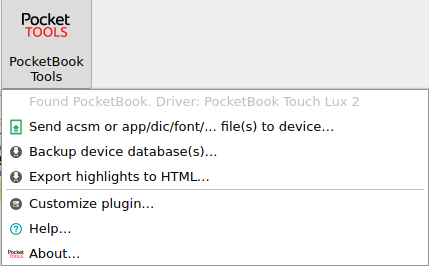
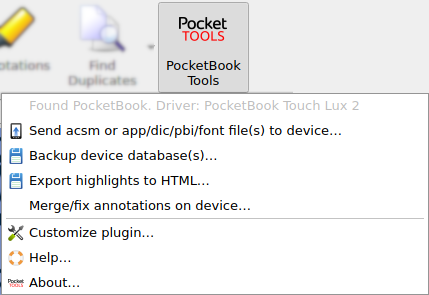
Added annotation merge/fix tool

diff --git a/help/PocketBook-Tools_Help_en.html b/help/PocketBook-Tools_Help_en.html
@@ -8,23 +8,23 @@
 </head>
 
 <body>
-<h1>Calibre PocketBook Tools helpfile</h1>
+<h1>Calibre PocketBook Tools help</h1>
 <p>Basic plugin offering several tools for (recent) Pocketbook readers.</p>
-<p>When Calibre recognises an USB connected PocketBook reader, the menu options should become available.</p>
+<p>When Calibre recognises an USB connected PocketBook reader, the menu options should become available.<br />
+    It should support most recent HD, Lux, Basic and Inkpad models.</p>
 
 <h2>Requirements</h2>
-<p>Plugin was tested with the 'PocketBook Lux 2' driver with Calibre versions 3.48-5.x, under Linux and Windows 10. It should support most recent HD, Lux, Basic and Inkpad models. 
+<p>Plugin was tested with the 'PocketBook Lux 2' driver with Calibre versions 3.48-5.x, under Linux and Windows 10.
 Plugin will also run under 2.58 but could not be tested due to device driver issues (if wanting, checkout CLI options for main.py).
 </p>
 <p>*Uses Vendor ID = [0xfffe]</p>
 
 <h2>Support and questions</h2>
-<p>Please visit the Mobilereads thread.</p>
+<p>Please visit the future Mobileread thread.</p>
 
 
 <h2>Todo</h2>
 <ul>
-<li>Export highlights: resolve minor sorting issue in 'title and page' mode</li>
 <li>Send to device: add GUI file overview</li>
 <li>Add additional CLI options</li>
 <li>Help wanted:<ul>
@@ -36,23 +36,31 @@ Plugin will also run under 2.58 but could not be tested due to device driver iss
 <hr />
 <h2>Tools</h2>
 <h3>Copy (...) files to device (GUI + CLI)</h3>
-<p>Copies user selected .acsm, .app, .dic/.pbi and font files to the appropiate folder on the connected reader</p>
+<p>Copies user selected .acsm, .app, .dic/.pbi and font files to the appropiate folder on the connected reader.</p>
 <p>Note that .zip support uses a simplified extraction method, which loses file metadata (time stamps) and loads extraction files into memory (one at a time).</p>
 
 <h3>Backup Database(s)</h3>
 <p>Copies explorer-x.db and books.db(s) to the specified directory.</p> 
 <p>The first contains file metadata from the library interface, and reading positions.
 The latter contains annotations, together with (unused) file metadata.</p> 
+<p>Notes: file similarity is checked after copying. <b>Existing backups are (currently) silently overwritten</b>.</p>
 
 <h3>Export Highlights</h3>
-For additional exporting features, see the <a href="http://www.mobileread.com/forums/showthread.php?p=2853161">Annotations plugin</a> that can export highlights and notes to Calibre.
+<p>For additional exporting features, see the <a href="http://www.mobileread.com/forums/showthread.php?p=2853161">Annotations plugin</a> that can export highlights and notes to Calibre.</p>
+
+<h3>Merge/Fix annotations on device</h3>
+<p>After an e-book files changes on the device, it may be treated as a new book in the database.
+    Examples are re-downloading public library e-books, and changing e-book cover and/or metadata.
+    Afterwards, annotations created for the previous file may no longer be shown for the 'new' file.</p>
+<p>This tool searches for such duplicated titles, and modifies any existing annotation entries to point to the (highest) ID representing the 'new' book entry.</p>
+<p><strong>PLEASE backup your books.db file(s) first, for example using the 'Backup database(s)' menu option.</strong></p>
 
 <hr />
 <h2>Author(s)</h2>
-<p>Highlight export improves upon script idea by retrography from <a href="https://www.mobileread.com/forums/showpost.php?p=3740634&postcount=36">https://www.mobileread.com/forums/showpost.php?p=3740634&postcount=36</a></p>
-
 <p>Building (and improving) upon parts from calibre-annotations and calibre-kobotools by DavidFor and griker, and the Calibre Plugin tutorial by Kovid Goyal.
 Without their work this plugin would not be possible.</p>
+
+<p>Highlight export improves upon script idea by retrography from <a href="https://www.mobileread.com/forums/showpost.php?p=3740634&postcount=36">https://www.mobileread.com/forums/showpost.php?p=3740634&postcount=36</a></p>
 
 <p>William Ouwehand 2021+ (mail todo)</p>
 

diff --git a/ui.py b/ui.py
@@ -1,7 +1,7 @@
 from calibre.constants import numeric_version as calibre_version
 from calibre.gui2.actions import InterfaceAction
 from calibre.gui2.device import device_signals
-from calibre.gui2 import info_dialog, error_dialog, open_url # FileDialog
+from calibre.gui2 import info_dialog, error_dialog, question_dialog, open_url # FileDialog
 
 try:
     from PyQt5.Qt import (Qt, QApplication, pyqtSignal, QIcon, QMenu, QAction, QRegExp, QUrl)
@@ -23,7 +23,7 @@ from calibre.utils.config import config_dir
 from calibre_plugins.pocketbook_tools.main import \
     getexplorerdb, sqlite_execute_query, profilepath, getprofilepaths, \
     fileuploader, export_htmlhighlights, dbbackup, \
-    copyfile
+    copyfile, mergefix_annotations
 
 # logging
 import logging, logging.config
@@ -153,6 +153,14 @@ class PocketBookToolsPlugin(InterfaceAction):
                                     triggered=self.show_exporthighlights,
         )
         self.pbexporthighlights.setObjectName('pb_exporthighlights')
+
+        self.pbmergefix_annotations = self.create_menu_action(m,
+                                    unique_name='pb_merge_anns',
+                                    text=_('Merge/fix annotations on device') + '…',
+                                    icon=QIcon(I('')),
+                                    triggered=self.show_mergefix_annotations,
+        )
+        self.pbmergefix_annotations.setObjectName('pb_mergefix_annotations')
 
         m.addSeparator()
 
@@ -332,6 +340,43 @@ class PocketBookToolsPlugin(InterfaceAction):
         d = MessageBox(MessageBox.INFO, 'Highlight export finished',
                        text, det_msg=None,
                        show_copy_button=False)
+        d.exec_()
+
+    def show_mergefix_annotations(self):
+        text = 'This tool will modify the device\'s annotation database(s).<br /><br />' \
+               '<b>Please backup the \'books.db\' database(s) first.</b><br /><br />' \
+                'Continue?'
+        d = question_dialog(None, 'Warning',
+                       text, det_msg=None,
+                       show_copy_button=False,
+                       default_yes=False,
+                       override_icon=QIcon(I('dialog_warning.png')))
+        if not d:
+            return
+
+        bookdbs = [self.bookdbs[a] for a, b in enumerate(self.bookdbs_anncount) if b > 0]
+        if not bookdbs:
+            text = 'No annotations found to merge/fix.'
+            report = None
+        else:
+            text = ''
+            report = ''
+
+        for profile, path in bookdbs:
+            titledupes_count = sqlite_execute_query(path,
+                                                    'SELECT COUNT(*) as title_dupes FROM (SELECT OID FROM Books GROUP BY Title, Authors HAVING COUNT(*) > 1)')
+            logger.debug('books.db has %s duplicate title' % titledupes_count)
+            if not titledupes_count:
+                text += 'Nothing found to fix for %s\n.' % db
+                continue
+            else:
+                text += 'Inspected %s.<br />Please check output below.' % path
+                report += 'Start inspecting: %s\n' % path
+                report += mergefix_annotations(path)
+
+        d = MessageBox(MessageBox.INFO, 'Finished merge/fix annotations',
+                       text, det_msg=report,
+                       show_copy_button=True)
         d.exec_()
 
     def show_configuration(self):

diff --git a/main.py b/main.py
@@ -1,4 +1,5 @@
 import os, shutil, filecmp, sqlite3, json, zipfile
+from random import randrange
 
 import logging
 logger = logging.getLogger('pbt_logger.main')
@@ -339,6 +340,58 @@ def export_htmlhighlights(db, sortontitle=False, outputfile=None):
 
     return True
 
+def mergefix_annotations(dbpath):
+    query_dupes = '''
+                    SELECT Title, Authors, OID, itemcount FROM Books
+                    INNER JOIN (SELECT Title, Authors FROM Books GROUP BY Title, Authors HAVING COUNT(*) > 1) using (Title, Authors)
+                    LEFT JOIN (SELECT ParentID, COUNT(*) AS itemcount FROM Items GROUP BY ParentID) on ParentID = Books.OID
+                    ORDER BY Title, Authors, OID DESC
+                    '''
+
+    query_update = '''
+                    UPDATE Items SET ParentID = ? WHERE ParentID = ?
+                    '''
+
+    # Given the early release, we do a backup just to be sure
+    copied = copyfile(dbpath, dbpath + '.backup')
+    logger.debug('Early release DB backup %s' % copied)
+
+    db = dbpath
+    con = sqlite3.connect(db)
+    cursor = con.cursor()
+    cursorupdate = con.cursor()
+
+    report = ''
+    currenttitle = None
+    currentauthor = str(randrange(100000, 1000000))  # author can be Null/None
+    maxoid = None
+    changes = False
+    for title, author, oid, itemcount in cursor.execute(query_dupes):
+        if title != currenttitle and author != currentauthor:
+            if not changes and currenttitle:
+                report += "No changes required for title %s %s.\n" % (currenttitle, currentauthor)
+            changes = False
+            currenttitle = title
+            currentauthor = author
+            maxoid = oid
+            reportline = 'Checking new title %s %s having max oid: %s\n' % (currenttitle, currentauthor, maxoid)
+            report += reportline
+            logging.debug(reportline)
+        elif itemcount:
+            result = cursorupdate.execute(query_update, (maxoid, oid))
+            if result:
+                changes = True
+                reportline = 'For %s, %s changing Item\'s ParentID of %s to %s\n' % (title, author, oid, maxoid)
+                report += reportline
+                logging.debug(reportline)
+
+    reportline = '\nTotal rows changed: %s\n\n' % con.total_changes
+    report += reportline
+    logging.debug(reportline)
+    con.commit()
+    con.close()
+
+    return report
 
 if __name__ == "__main__":
     import argparse
